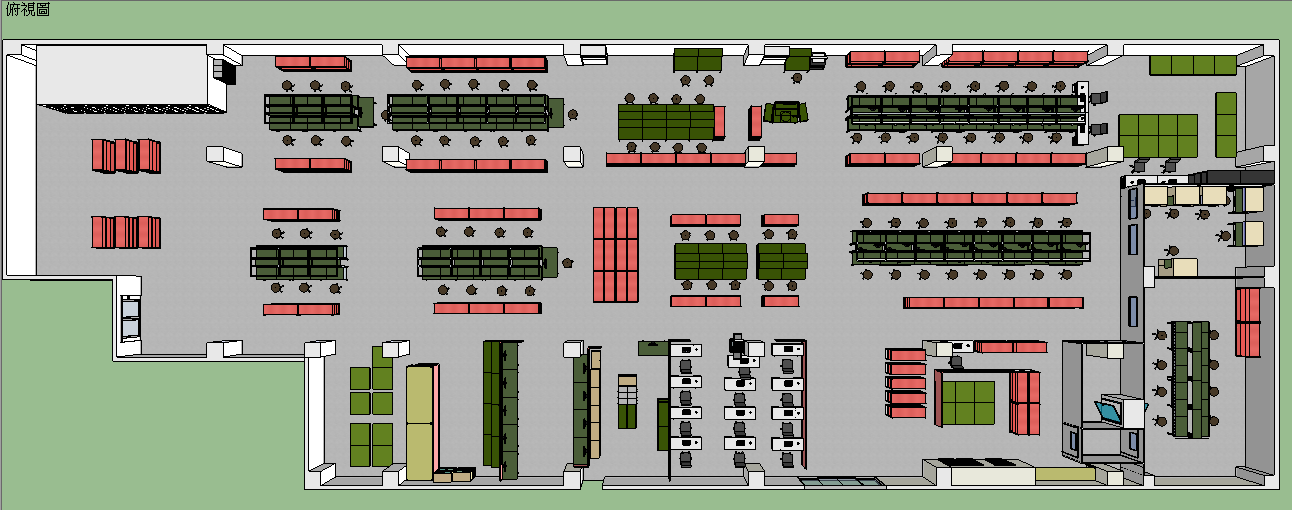
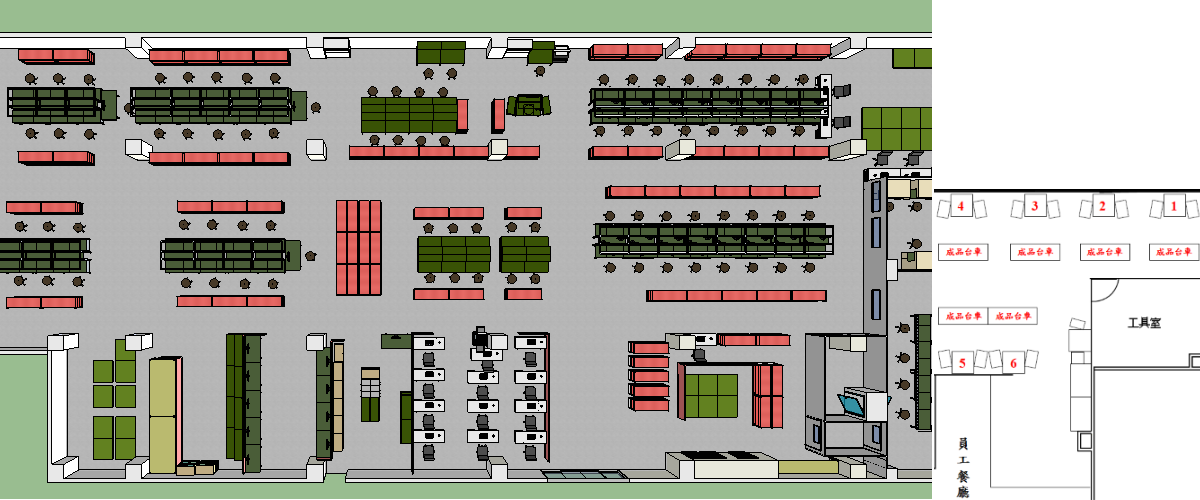
Change map setting on web Test endpoint stop when quartz scheduler is not started

diff --git a/src/main/webapp/js/totalMap-setting/6f.js b/src/main/webapp/js/totalMap-setting/6f.js
@@ -3,28 +3,32 @@ var pYa = -20;
 
 var titleGroup = [
     //assy
-    {lineName: "L1", x: 1080, y: 280},
-    {lineName: "L2", x: 1080, y: 180},
+    {lineName: "L1", x: 875, y: 265},
+    {lineName: "L2", x: 875, y: 165},
     //pkg
-    {lineName: "L6", x: 190, y: 200},
-    {lineName: "L7", x: 190, y: 105},
-    {lineName: "L8", x: 525, y: 220},
-    {lineName: "L9", x: 525, y: 280}
+    {lineName: "L6", x: 90, y: 235},
+    {lineName: "L7", x: 90, y: 130},
+    {lineName: "L8", x: 300, y: 175},
+    {lineName: "L9", x: 300, y: 290},
+    {lineName: "CELL", x: 1010, y: 130}
 ];
 var testGroup = [
-    {people: 4, x: 580, y: 80}, // group 15-18
-    {people: 4, x: 580, y: 160}, // group 11-14
-    {people: 5, x: 610, y: 210}, // group 6-10
-    {people: 5, x: 610, y: 290} // group 1-5
+    {people: 4, x: 430, y: 0}, // group 47-50
+    {people: 4, x: 580, y: 0}, // group 43-46
+    {people: 4, x: 335, y: 80}, // group 39-42
+    {people: 4, x: 335, y: 130}, // group 35-38
+    {people: 5, x: 400, y: 195}, // group 30-34
+    {people: 5, x: 400, y: 280} // group 25-29
 ];
 var babGroup = [
-    {people: 8, x: 790, y: 280, lineName: "L1"}, // group 1-4
-    {people: 8, x: 790, y: 190, lineName: "L2"}, // group 21-24
-    {people: 3, x: 255, y: 210, lineName: "L6"}, // group 16-20
-    {people: 3, x: 255, y: 120, lineName: "L7"}, // group 9-15
-    {people: 4, x: 400, y: 190, lineName: "L8"}, // group 5-8
-    {people: 4, x: 400, y: 320, lineName: "L9"} // group 1-4
+    {people: 8, x: 590, y: 270, lineName: "L1"}, 
+    {people: 8, x: 590, y: 185, lineName: "L2"}, 
+    {people: 3, x: 0, y: 200, lineName: "L6"}, 
+    {people: 3, x: 10, y: 95, lineName: "L7"}, 
+    {people: 4, x: 160, y: 190, lineName: "L8"}, 
+    {people: 4, x: 160, y: 290, lineName: "L9"} 
 ];
 
-var maxTestTableNo = 42;
+var maxTestTableNo = 50;
 var sitefloor = 6;
+

diff --git a/src/main/webapp/js/totalMap-setting/6f_1.js b/src/main/webapp/js/totalMap-setting/6f_1.js
@@ -1,0 +1,32 @@
+var pXa = -20;
+var pYa = -20;
+
+var titleGroup = [
+    //assy
+    {lineName: "L1", x: 1080, y: 280},
+    {lineName: "L2", x: 1080, y: 180},
+    //pkg
+    {lineName: "L6", x: 190, y: 200},
+    {lineName: "L7", x: 190, y: 105},
+    {lineName: "L8", x: 525, y: 220},
+    {lineName: "L9", x: 525, y: 280}
+];
+var testGroup = [
+    {people: 4, x: 430, y: 40}, // group 47-50
+    {people: 4, x: 580, y: 40}, // group 43-46
+    {people: 4, x: 580, y: 80}, // group 39-42
+    {people: 4, x: 580, y: 160}, // group 35-38
+    {people: 5, x: 610, y: 210}, // group 30-34
+    {people: 5, x: 610, y: 290} // group 25-29
+];
+var babGroup = [
+    {people: 8, x: 790, y: 280, lineName: "L1"}, // group 1-4
+    {people: 8, x: 790, y: 190, lineName: "L2"}, // group 21-24
+    {people: 3, x: 255, y: 210, lineName: "L6"}, // group 16-20
+    {people: 3, x: 255, y: 120, lineName: "L7"}, // group 9-15
+    {people: 4, x: 400, y: 190, lineName: "L8"}, // group 5-8
+    {people: 4, x: 400, y: 320, lineName: "L9"} // group 1-4
+];
+
+var maxTestTableNo = 42;
+var sitefloor = 6;

diff --git a/src/main/webapp/js/cell-setting/6f.js b/src/main/webapp/js/cell-setting/6f.js
@@ -2,5 +2,10 @@ var pXa = -0;
 var pYa = -0;
 
 var cellGroup = [
-    {people: 1, x: 740, y: 100, lineName: "F"}
+    {people: 1, x: 1160, y: 190, lineName: "A"},
+    {people: 1, x: 1090, y: 190, lineName: "B"},
+    {people: 1, x: 1020, y: 190, lineName: "C"},
+    {people: 1, x: 950, y: 190, lineName: "D"},
+    {people: 1, x: 945, y: 345, lineName: "E"},
+    {people: 1, x: 1000, y: 345, lineName: "F"}
 ];

diff --git a/src/main/webapp/js/numLamp-setting/6f.js b/src/main/webapp/js/numLamp-setting/6f.js
@@ -2,6 +2,6 @@ var pXa = -0;
 var pYa = -0;
 
 var numLampGroup = [
-    {people: 1, x: 1120, y: 320, lineName: "L1"}, //舊的L3
-    {people: 1, x: 1120, y: 130, lineName: "L2"}  //舊的L4
+    {people: 1, x: 860, y: 320, lineName: "L1"}, 
+    {people: 1, x: 860, y: 85, lineName: "L2"}  
 ];

diff --git a/src/main/java/com/advantech/test/TestClass.java b/src/main/java/com/advantech/test/TestClass.java
@@ -5,8 +5,12 @@
  */
 package com.advantech.test;
 
-import java.util.ArrayList;
-import java.util.List;
+import com.advantech.entity.User;
+import com.advantech.webservice.WebServiceRV;
+import com.advantech.webservice.WebServiceTX;
+import com.google.gson.Gson;
+import java.util.logging.Level;
+import java.util.logging.Logger;
 
 /**
  *
@@ -15,26 +19,24 @@ import java.util.List;
 public class TestClass {
 
     public static void main(String[] args) {
-        List<Contract> objs = new ArrayList();
-        Contract c1 = new Super();
-        Contract c2 = new Sub(); //Line n1
-        Super s1 = new Sub();
-        objs.add(c1);
-        objs.add(c2);
-        objs.add(s1); //Line n2
-
-        for (Object itm : objs) {
-            System.out.println(itm.getClass().getName());
+//        WebServiceTX tx = WebServiceTX.getInstance();
+//        try {
+//            tx.kanbanUserLogin("A-P03539");
+//        } catch (Exception ex) {
+//            System.out.println(ex);
+//        }
+        WebServiceRV rv = WebServiceRV.getInstance();
+        User user = rv.getMESUser("A-F0107");
+        System.out.println(new Gson().toJson(user));
+        
+        WebServiceTX tx = WebServiceTX.getInstance();
+        try {
+            tx.kanbanUserLogin("A-F0107");
+            System.out.println("success");
+        } catch (Exception ex) {
+            System.out.println("fail");
         }
     }
 
 }
 
-interface Contract {
-}
-
-class Super implements Contract {
-}
-
-class Sub extends Super {
-}

diff --git a/src/main/java/com/advantech/endpoint/Endpoint2.java b/src/main/java/com/advantech/endpoint/Endpoint2.java
@@ -59,8 +59,8 @@ public class Endpoint2 {
         //每次當client連接進來時，去看目前session的數量 當有1個session時把下方quartz job加入到schedule裏頭(只要執行一次，不要重複加入)
         int a = sessions.size();
         if (a == 1) {
-            pollingDBAndBrocast();
             System.out.println("Some session exist, begin polling.");
+            pollingDBAndBrocast();
         }
     }
     

diff --git a/src/main/java/com/advantech/endpoint/Endpoint3.java b/src/main/java/com/advantech/endpoint/Endpoint3.java
@@ -58,8 +58,8 @@ public class Endpoint3 {
         //每次當client連接進來時，去看目前session的數量 當有1個session時把下方quartz job加入到schedule裏頭(只要執行一次，不要重複加入)
         int a = sessions.size();
         if (a == 1) {
-            pollingDBAndBrocast();
             System.out.println("Some session exist, begin polling.");
+            pollingDBAndBrocast();
         }
     }
 

diff --git a/src/main/java/com/advantech/endpoint/Endpoint4.java b/src/main/java/com/advantech/endpoint/Endpoint4.java
@@ -62,8 +62,8 @@ public class Endpoint4 {
         //每次當client連接進來時，去看目前session的數量 當有1個session時把下方quartz job加入到schedule裏頭(只要執行一次，不要重複加入)
         int a = sessions.size();
         if (a == 1) {
-            pollingDBAndBrocast();
             System.out.println("Some session exist, begin polling.");
+            pollingDBAndBrocast();
         }
     }
 

diff --git a/src/main/java/com/advantech/helper/CronTrigMod.java b/src/main/java/com/advantech/helper/CronTrigMod.java
@@ -50,7 +50,7 @@ public class CronTrigMod {
     private CronTrigMod() throws SchedulerException {
         this.changedJobKey = new HashMap();
         scheduler = new StdSchedulerFactory().getScheduler();
-        if(scheduler == null || scheduler.isShutdown()){
+        if(scheduler == null || !scheduler.isStarted()){
             throw new SchedulerException("Scheduler is not started");
         }
     }

diff --git a/src/main/java/com/advantech/endpoint/Endpoint.java b/src/main/java/com/advantech/endpoint/Endpoint.java
@@ -16,9 +16,7 @@ import java.io.IOException;
 import java.util.ArrayList;
 import java.util.Collections;
 import java.util.HashSet;
-import java.util.Queue;
 import java.util.Set;
-import java.util.concurrent.ConcurrentLinkedQueue;
 import javax.websocket.OnClose;
 import javax.websocket.OnError;
 import javax.websocket.OnMessage;

diff --git a/src/main/java/com/advantech/endpoint/Endpoint6.java b/src/main/java/com/advantech/endpoint/Endpoint6.java
@@ -12,7 +12,6 @@ package com.advantech.endpoint;
 import com.advantech.entity.BAB;
 import com.advantech.service.BasicService;
 import com.google.gson.Gson;
-import java.io.IOException;
 import java.util.ArrayList;
 import java.util.Collections;
 import java.util.HashMap;
